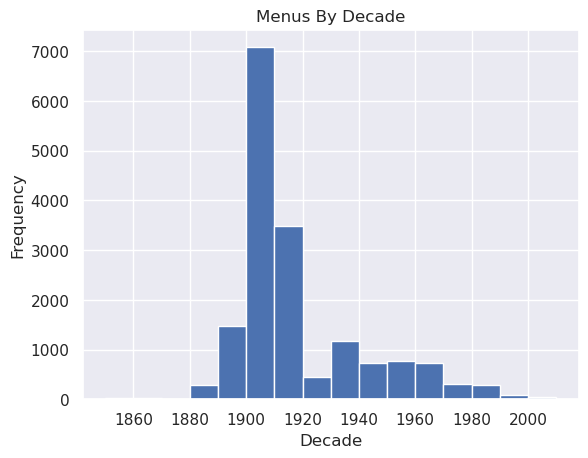
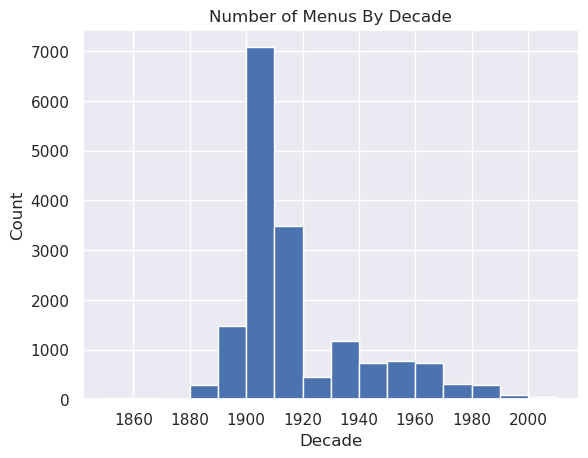
Menu table venn diagram

Changed region(s): [[0.3367, 0.0, 0.7653, 0.0611], [0.0, 0.3974, 0.0612, 0.5808]]

diff --git a/src/explore.py b/src/explore.py
@@ -1,42 +1,43 @@
 from argparse import ArgumentParser
 import matplotlib.pyplot as plt
+from matplotlib_venn import venn3_unweighted
 import pandas as pd
 import seaborn as sns
-from typing import Tuple
 
 from regex import is_new_york, is_1900_to_1909, is_dollars
 
 
-def load_data(dataset_path: str) -> Tuple[pd.DataFrame, pd.DataFrame]:
+def load_data(dataset_path: str) -> pd.DataFrame:
     menu_df = pd.read_csv(f"{dataset_path}/Menu.csv")
-    dish_df = pd.read_csv(f"{dataset_path}/Dish.csv")
-    return menu_df, dish_df
+    return menu_df
 
 def explore_menu_table(menu_df: pd.DataFrame) -> None:
-    menus_with_no_place       = menu_df[ menu_df['place'].isna()]
-    menus_from_new_york       = menu_df[ menu_df['place'].str.contains(is_new_york, na=False)]
-    menus_from_other_places   = menu_df[~menu_df['place'].str.contains(is_new_york, na=False) & menu_df['place'].notnull()]
+    place_ny    =  menu_df['place'].str.contains(is_new_york, na=False)
+    place_other = ~menu_df['place'].str.contains(is_new_york, na=False) & menu_df['place'].notnull()
+    place_null  =  menu_df['place'].isna()
 
-    menus_with_no_date        = menu_df[ menu_df['date'].isna()]
-    menus_from_1900_to_1909   = menu_df[ menu_df['date'].str.contains(is_1900_to_1909, na=False)]
-    menus_from_other_dates    = menu_df[~menu_df['date'].str.contains(is_1900_to_1909, na=False) & menu_df['date'].notnull()]
+    date_1900s =  menu_df['date'].str.contains(is_1900_to_1909, na=False)
+    date_other = ~menu_df['date'].str.contains(is_1900_to_1909, na=False) & menu_df['date'].notnull()
+    date_null  =  menu_df['date'].isna()
 
-    menus_with_no_currency    = menu_df[ menu_df['currency'].isna()]
-    menus_in_dollars          = menu_df[ menu_df['currency'].str.contains(is_dollars, na=False)]
-    menus_in_other_currencies = menu_df[~menu_df['currency'].str.contains(is_dollars, na=False) & menu_df['currency'].notnull()]
+    currency_dollars =  menu_df['currency'].str.contains(is_dollars, na=False)
+    currency_other   = ~menu_df['currency'].str.contains(is_dollars, na=False) & menu_df['currency'].notnull()
+    currency_null    =  menu_df['currency'].isna()
 
-    assert (menus_with_no_place['place'].size + menus_from_new_york['place'].size + menus_from_other_places['place'].size) == menu_df['place'].size, "Invalid place value assumptions"
-    assert (menus_with_no_date['date'].size + menus_from_1900_to_1909['date'].size + menus_from_other_dates['date'].size) == menu_df['date'].size, "Invalid date value assumptions"
-    assert (menus_with_no_currency['currency'].size + menus_in_dollars['currency'].size + menus_in_other_currencies['currency'].size) == menu_df['currency'].size, "Invalid currency value assumptions"
+    assert (menu_df[place_ny]['place'].size + menu_df[place_other]['place'].size + menu_df[place_null]['place'].size) == menu_df['place'].size, "Invalid place value assumptions"
+    assert (menu_df[date_1900s]['date'].size + menu_df[date_other]['date'].size + menu_df[date_null]['date'].size) == menu_df['date'].size, "Invalid date value assumptions"
+    assert (menu_df[currency_dollars]['currency'].size + menu_df[currency_other]['currency'].size + menu_df[currency_null]['currency'].size) == menu_df['currency'].size, "Invalid currency value assumptions"
     assert menu_df['place'].size == menu_df['date'].size == menu_df['currency'].size, "Invalid attribute length assumption"
 
-    target = [menus_in_dollars['currency'].size, menus_from_1900_to_1909['date'].size, menus_from_new_york['place'].size]
-    other = [menus_in_other_currencies['currency'].size, menus_from_other_dates['date'].size, menus_from_other_places['place'].size]
-    empty = [menus_with_no_currency['currency'].size, menus_with_no_date['date'].size, menus_with_no_place['place'].size]
+    bar_df = pd.DataFrame({
+            'In target range': [menu_df[currency_dollars]['currency'].size, menu_df[date_1900s]['date'].size, menu_df[place_ny]   ['place'].size],
+            'Other value':     [menu_df[currency_other]  ['currency'].size, menu_df[date_other]['date'].size, menu_df[place_other]['place'].size],
+            'No value':        [menu_df[currency_null]   ['currency'].size, menu_df[date_null] ['date'].size, menu_df[place_null] ['place'].size]
+        },
+        index=['currency', 'date', 'place']
+    )
 
     sns.set_theme()
-
-    bar_df = pd.DataFrame({'In target range': target, 'Other value': other, 'No value': empty}, index=['currency', 'date', 'place'])
     bar_df.plot(kind='barh', stacked=True, color=['green', 'grey', 'lightgrey'], xlabel="Number of records", title="Applicable Menu Table Attributes")
     plt.savefig("doc/menu-bar-chart.png", bbox_inches='tight')
     plt.clf()
@@ -44,27 +45,35 @@ def explore_menu_table(menu_df: pd.DataFrame) -> None:
     menu_df['year'] = pd.to_datetime(menu_df.date, errors='coerce').dt.year
     menu_df['decade'] = menu_df.year - (menu_df.year % 10)
 
-    assert menu_df[menu_df['decade'] == 1900.0]['decade'].size == menus_from_1900_to_1909['date'].size, "Invalid date range assumption"
+    assert menu_df[menu_df['decade'] == 1900.0]['decade'].size == menu_df[date_1900s]['date'].size, "Invalid date range assumption"
 
-    menu_df['decade'].plot(kind='hist', x='date', xlabel="Decade", title="Menus By Decade", bins=range(1850, 2011, 10))
+    menu_df['decade'].plot(kind='hist', x='date', xlabel="Decade", ylabel="Count", title="Number of Menus By Decade", bins=range(1850, 2011, 10))
     plt.savefig("doc/menu-date-histogram.png", bbox_inches='tight')
+    plt.clf()
 
-    #todo: Venn diagram of menus in NY, from 1900-1909, and in Dollars
-        #todo: https://stackoverflow.com/questions/18079563/finding-the-intersection-between-two-series-in-pandas
-        #todo: matplotlib_venn (get help from chatGPT)
-
-def explore_dish_table(dish_df: pd.DataFrame) -> None:
-    pass #todo: create "is_cup_of_coffee" regex and plot "name" attribute stacked bar chart (coffee, other, no value)
+    venn3_unweighted(subsets=[
+                            menu_df[ place_ny & ~date_1900s & ~currency_dollars]['id'].size,
+                            menu_df[~place_ny &  date_1900s & ~currency_dollars]['id'].size,
+                            menu_df[ place_ny &  date_1900s & ~currency_dollars]['id'].size,
+                            menu_df[~place_ny & ~date_1900s &  currency_dollars]['id'].size,
+                            menu_df[ place_ny & ~date_1900s &  currency_dollars]['id'].size,
+                            menu_df[~place_ny &  date_1900s &  currency_dollars]['id'].size,
+                            menu_df[ place_ny &  date_1900s &  currency_dollars]['id'].size
+                        ],
+                     set_labels=["New York", "1900 - 1909", "Dollars"],
+                     set_colors=['teal', 'purple', 'blue'])
+    plt.title("Overlap Between Applicable Menu Table Attributes")
+    plt.savefig("doc/menu-venn-diagram.png", bbox_inches='tight')
+    plt.clf()
 
 def main() -> None:
     parser = ArgumentParser()
     parser.add_argument('dataset_path', help='Path to the directory of the dataset to run on')
     args = parser.parse_args()
 
-    menu_df, dish_df = load_data(args.dataset_path)
+    menu_df= load_data(args.dataset_path)
 
     explore_menu_table(menu_df)
-    explore_dish_table(dish_df)
 
 
 if __name__ == "__main__":

diff --git a/README.md b/README.md
@@ -25,11 +25,11 @@ Credit: @monsieur-le-git
 
 The first target question is tuned to the data available in the dataset.
 
+![menu date histogram](doc/menu-date-histogram.png)
+
 ![menu bar chart](doc/menu-bar-chart.png)
 
-
-
-![menu date histogram](doc/menu-date-histogram.png)
+![menu venn diagram](doc/menu-venn-diagram.png)
 
 ## Workflow
 
